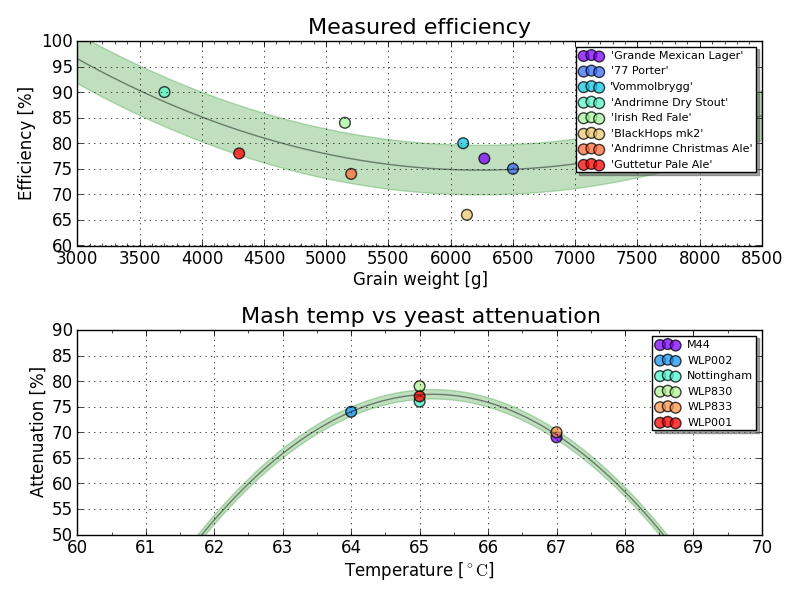
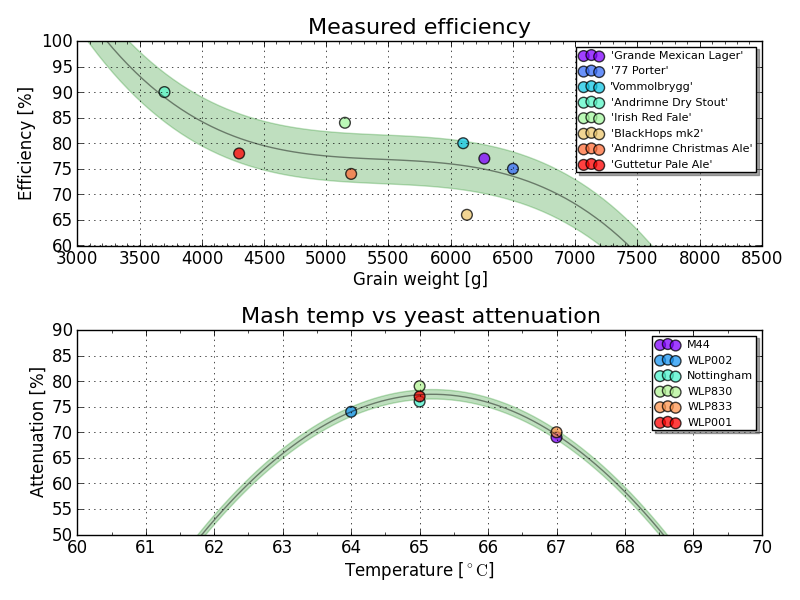
changed plynomial from 2nd to 3rd order
Just for fun..

Changed region(s): [[0.0938, 0.06, 0.8125, 0.42], [0.9375, 0.15, 0.9688, 0.24]]

diff --git a/plot_all.py b/plot_all.py
@@ -24,8 +24,8 @@ def weight_vs_efficiency_figure(subplot):
     wx = weightdata["Grainweight_g"]
     wy = weightdata["Efficiency_"]
 
-    #fit 2nd order polynomial
-    wparams = np.polyfit(wx, wy, 2)
+    #fit 3rd order polynomial
+    wparams = np.polyfit(wx, wy, 3)
     wxp = np.linspace(8500, 2500, 100)
     wyp = np.polyval(wparams, wxp)
 
